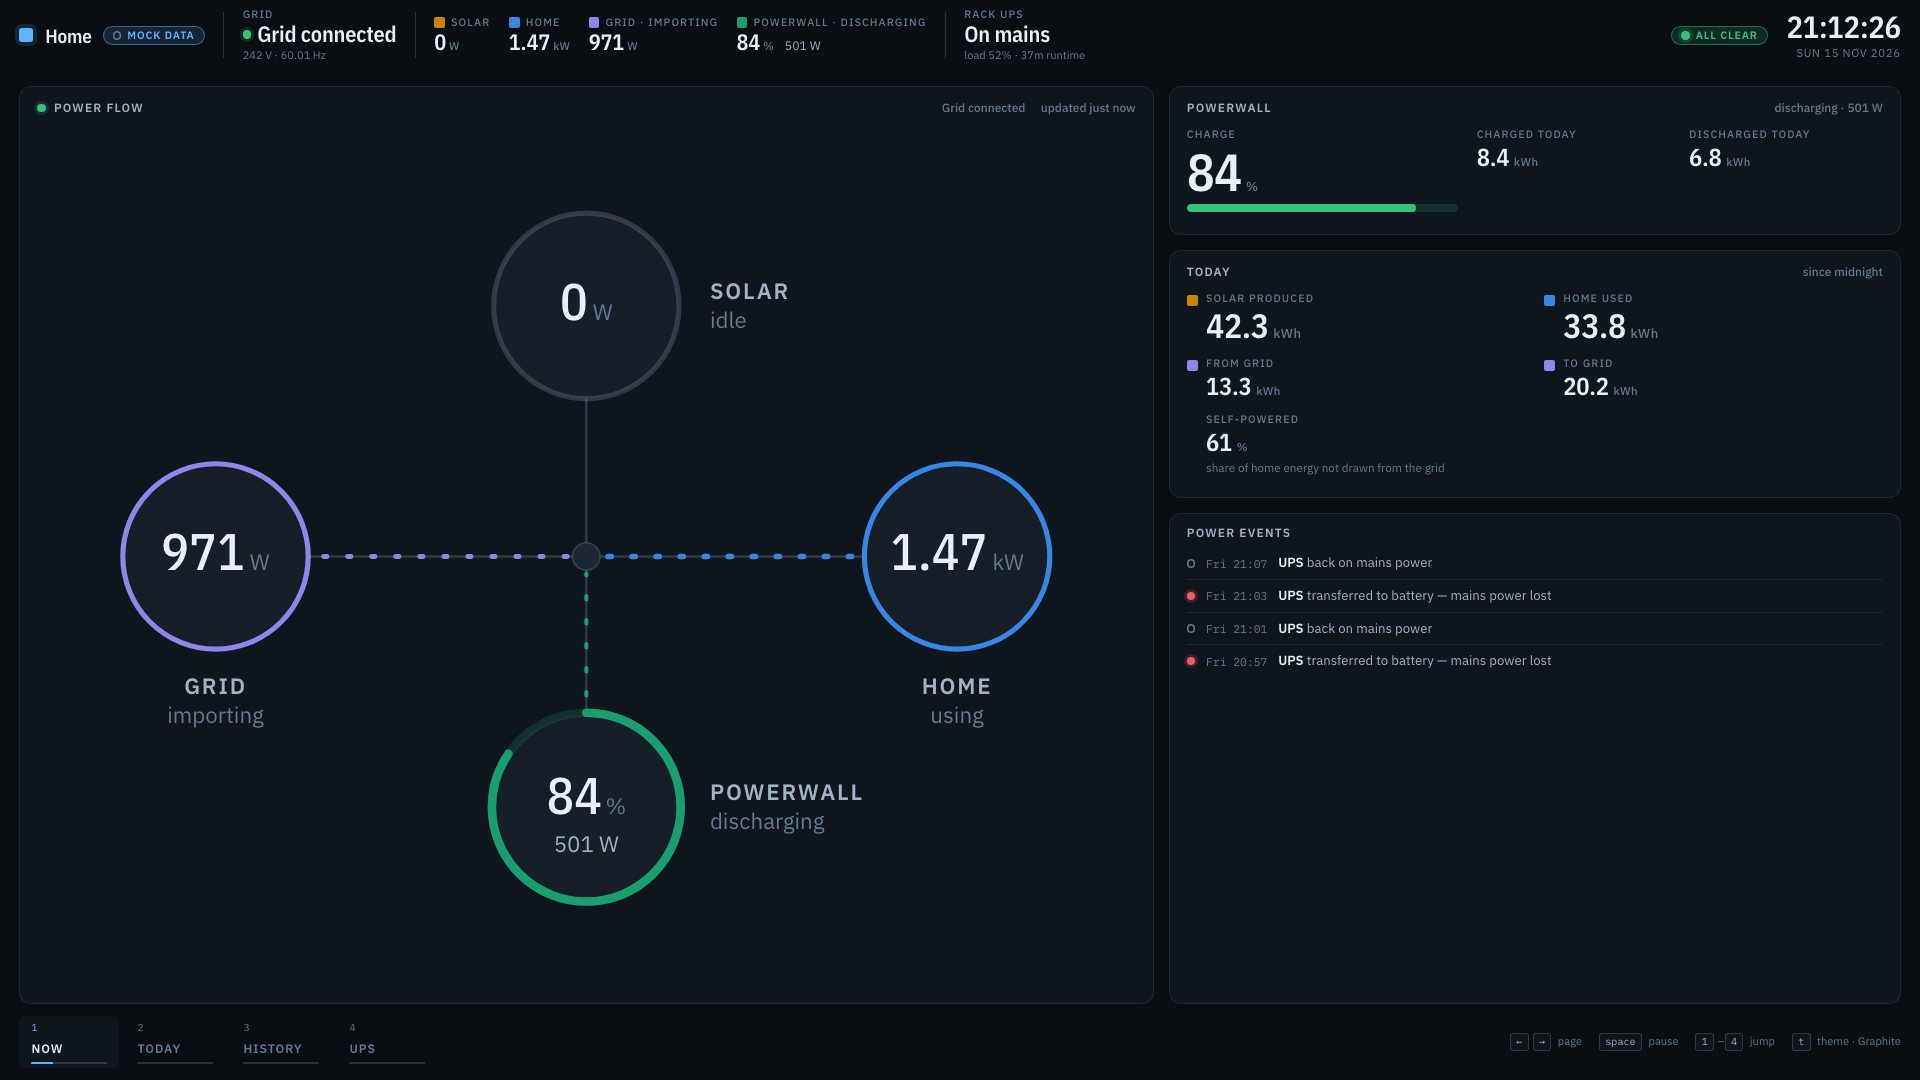
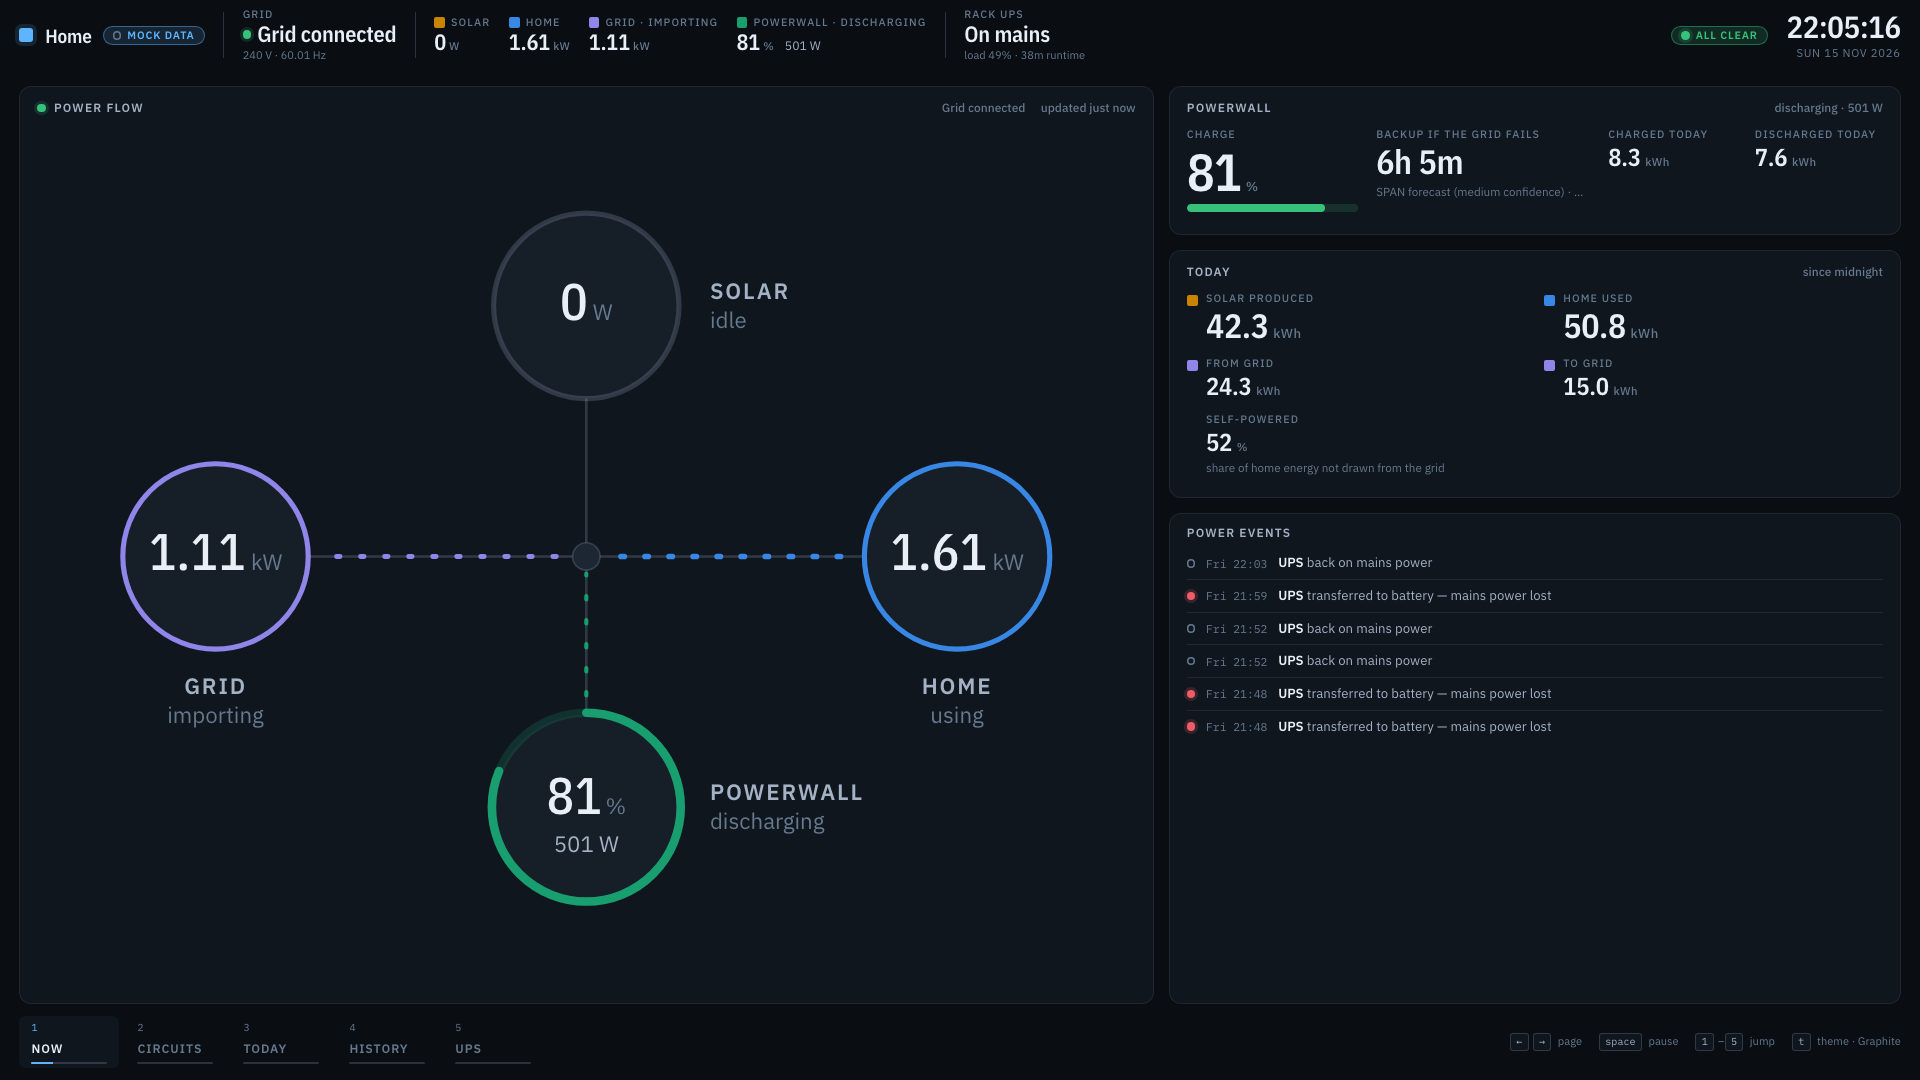
Show the off-grid backup forecast on the energy kiosk
SPAN publishes its own off-grid runtime forecast (shed-forecast/*, in
minutes; it accounts for load-shed tiers) and the battery's stored
energy. Carry both as SpanInfo.backup. backupEstimate() pairs SPAN's
figure with a plain at-current-draw one (stored kWh / (home - solar)).
They can differ by 2x or more: tonight it's 9h 43m vs 4h 0m with the
hot tub and EV charger running.

- Now page: a "Backup if the grid fails" stat in the Powerwall panel.
- While islanded: the top bar's grid status and the outage alert say
  how much backup is left.
- The next-shed countdown appears only once circuits are set to shed
  (in the SPAN app).
The mock gets a matching forecast.

diff --git a/web/src/lib/derive.ts b/web/src/lib/derive.ts
@@ -1,5 +1,5 @@
 import { buildTopology, type TopoEdge } from './topology.js';
-import { bps, pct, shortName } from './format.js';
+import { bps, formatUptime, pct, shortName } from './format.js';
 import type { Band, ClientStat, DeviceType, EnergyDay, NetworkDevice, PowerwallInfo, SpanInfo, UpsInfo, Wan, Features, EventSeverity } from './types.js';
 
 /** Pure derivations over the snapshot: what needs attention, fleet rollups,
@@ -171,7 +171,11 @@ export function deriveEnergyAlerts(s: EnergyAlertInput): Alert[] {
     if (!p || !p.reachable) add('warn', 'Powerwall', 'gateway not answering', 'energy');
     else {
       if (s.now - p.updatedAt > THRESHOLDS.powerwallStaleMs) add('warn', 'Powerwall', 'readings are stale', 'energy');
-      if (p.grid === 'islanded') add('crit', 'Grid', 'outage — home running on Powerwall', 'energy');
+      if (p.grid === 'islanded') {
+        const b = backupEstimate(s.span ?? null, p);
+        const left = b?.forecastMin ?? b?.atCurrentMin ?? null;
+        add('crit', 'Grid', `outage — home running on Powerwall${left != null ? `, ~${formatUptime(left * 60)} backup left` : ''}`, 'energy');
+      }
       if (p.chargePct != null && p.chargePct < THRESHOLDS.powerwallChargeCritPct) add('crit', 'Powerwall', `charge ${pct(p.chargePct)}`, 'energy');
       else if (p.chargePct != null && p.chargePct < THRESHOLDS.powerwallChargeWarnPct) add('warn', 'Powerwall', `charge ${pct(p.chargePct)}`, 'energy');
     }
@@ -182,6 +186,38 @@ export function deriveEnergyAlerts(s: EnergyAlertInput): Alert[] {
   }
   if (s.features.upsAvailable) upsAlerts(s.ups, add);
   return finalizeAlerts(out);
+}
+
+// --- backup runtime ---
+
+export type BackupEstimate = {
+  /** SPAN's forecast (accounts for load-shed tiers), minutes. */
+  forecastMin: number | null;
+  /** Plain arithmetic: stored energy over the live draw net of solar. Null
+   *  when solar covers the load (no drain) or the stored energy is unknown. */
+  atCurrentMin: number | null;
+  confidence: 'LOW' | 'MEDIUM' | 'HIGH' | null;
+  /** Minutes to the next shed tier, only when circuits are set to shed. */
+  nextShedMin: number | null;
+  storedKWh: number | null;
+};
+
+/** How long the house could run off-grid: SPAN's forecast as the headline
+ *  and a naive "at current draw" figure beside it — they differ because
+ *  SPAN assumes a typical load, while an evening with the hot tub and EV
+ *  charger running drains much faster. */
+export function backupEstimate(span: SpanInfo | null, pw: PowerwallInfo | null): BackupEstimate | null {
+  const b = span?.reachable ? span.backup : null;
+  if (!b) return null;
+  const drainW = pw ? Math.max(0, pw.homeW - pw.solarW) : null;
+  const atCurrentMin = b.storedKWh != null && drainW != null && drainW >= 50 ? Math.round((b.storedKWh * 1000 * 60) / drainW) : null;
+  return {
+    forecastMin: b.totalMin != null && b.totalMin > 0 ? b.totalMin : null,
+    atCurrentMin,
+    confidence: b.confidence,
+    nextShedMin: b.sheddableCircuits > 0 && b.nextShedMin != null && b.nextShedMin > 0 ? b.nextShedMin : null,
+    storedKWh: b.storedKWh,
+  };
 }
 
 // --- circuit flow (sources → panel → each circuit) ---

diff --git a/web/src/lib/pages/EnergyNowPage.svelte b/web/src/lib/pages/EnergyNowPage.svelte
@@ -1,7 +1,7 @@
 <script lang="ts">
   import { panel } from '$lib/store.svelte';
-  import { batteryDirection, gridLabel, selfPoweredPct, THRESHOLDS } from '$lib/derive';
-  import { formatKWh, formatW, num, relativeTime } from '$lib/format';
+  import { backupEstimate, batteryDirection, gridLabel, selfPoweredPct, THRESHOLDS } from '$lib/derive';
+  import { formatKWh, formatUptime, formatW, num, relativeTime } from '$lib/format';
   import Panel from '$lib/components/Panel.svelte';
   import Stat from '$lib/components/Stat.svelte';
   import Meter from '$lib/components/Meter.svelte';
@@ -24,6 +24,17 @@
   const energyEvents = $derived(panel.events.filter((e) => /^(grid|powerwall|ups)\./.test(e.kind)));
 
   const k = (wh: number | undefined) => formatKWh(wh);
+  const backup = $derived(backupEstimate(panel.span, pw));
+  const dur = (min: number | null | undefined) => (min == null ? '—' : formatUptime(min * 60));
+  const backupSub = $derived.by(() => {
+    if (!backup) return '';
+    const parts: string[] = [];
+    if (backup.forecastMin != null) parts.push(`SPAN forecast${backup.confidence ? ` (${backup.confidence.toLowerCase()} confidence)` : ''}`);
+    if (backup.atCurrentMin != null) parts.push(`${dur(backup.atCurrentMin)} at current draw`);
+    else if (pw && pw.solarW >= pw.homeW) parts.push('solar covering the load');
+    if (backup.nextShedMin != null) parts.push(`first shed in ${dur(backup.nextShedMin)}`);
+    return parts.join(' · ');
+  });
   const batt = $derived(formatW(pw?.batteryW));
 </script>
 
@@ -55,6 +66,9 @@
         <Stat label="Charge" value={num(pw.chargePct)} unit="%" size="xl" tone={chargeTone}>
           <Meter value={pw.chargePct} tone={chargeTone === 'none' ? 'ok' : chargeTone} height={8} />
         </Stat>
+        {#if backup}
+          <Stat label="Backup if the grid fails" value={dur(backup.forecastMin ?? backup.atCurrentMin)} size="lg" sub={backupSub} />
+        {/if}
         <Stat label="Charged today" value={k(today?.batteryChargeWh).value} unit="kWh" />
         <Stat label="Discharged today" value={k(today?.batteryDischargeWh).value} unit="kWh" />
       </div>
@@ -103,7 +117,7 @@
   }
   .battery {
     display: grid;
-    grid-template-columns: minmax(0, 1.4fr) repeat(2, minmax(0, 1fr));
+    grid-template-columns: minmax(0, 1.2fr) minmax(0, 1.5fr) repeat(2, minmax(0, 0.9fr));
     gap: 1.2rem;
     align-items: start;
     padding: 0.2rem 0 0.4rem;

diff --git a/server/src/span.ts b/server/src/span.ts
@@ -2,7 +2,7 @@ import { mkdirSync, readFileSync, writeFileSync } from 'node:fs';
 import { dirname, join } from 'node:path';
 import mqtt, { type MqttClient } from 'mqtt';
 import { fetch as undiciFetch } from 'undici';
-import type { SpanCircuit, SpanInfo } from './types.js';
+import type { SpanBackup, SpanCircuit, SpanInfo } from './types.js';
 
 /** SPAN smart panel over its local v2 API (spanio/SPAN-API-Client-Docs).
  *
@@ -144,6 +144,7 @@ export class SpanClient {
     const panel = this.devicesOfType('distribution-enclosure')[0]?.[1];
     if (!panel) return null;
     const up = this.devicesOfType('lugs').find(([, p]) => p.get('info/direction') === 'UPSTREAM')?.[1];
+    const bess = this.devicesOfType('bess')[0]?.[1];
     const state = panel.get('$state');
 
     const circuits: SpanCircuit[] = this.devicesOfType('circuit').map(([id, p]) => {
@@ -179,7 +180,28 @@ export class SpanClient {
       frequencyHz: num(panel.get('meter/frequency')),
       doorClosed: panel.has('door/state') ? panel.get('door/state') === 'CLOSED' : null,
       circuits,
+      backup: this.backup(panel, bess),
       updatedAt: this.lastMessageAt,
+    };
+  }
+
+  private backup(panel: Map<string, string>, bess: Map<string, string> | undefined): SpanBackup | null {
+    if (!panel.has('shed-forecast/total-time-remaining') && !bess) return null;
+    const conf = panel.get('shed-forecast/confidence');
+    let sheddable = 0;
+    for (const [, p] of this.devicesOfType('circuit')) {
+      const pr = p.get('load-shed/priority');
+      if (pr === 'OFF_GRID' || pr === 'SOC_THRESHOLD') sheddable++;
+    }
+    return {
+      totalMin: num(panel.get('shed-forecast/total-time-remaining')),
+      nextShedMin: num(panel.get('shed-forecast/time-to-priority-shed')),
+      fullChargeTotalMin: num(panel.get('shed-forecast/full-charge-total-time-remaining')),
+      fullChargeNextShedMin: num(panel.get('shed-forecast/full-charge-time-to-priority-shed')),
+      confidence: conf === 'LOW' || conf === 'MEDIUM' || conf === 'HIGH' ? conf : null,
+      storedKWh: num(bess?.get('soc/soe')),
+      capacityKWh: num(bess?.get('info/nameplate-capacity')),
+      sheddableCircuits: sheddable,
     };
   }
 }

diff --git a/web/src/lib/components/EnergyTopBar.svelte b/web/src/lib/components/EnergyTopBar.svelte
@@ -1,7 +1,7 @@
 <script lang="ts">
   import { onMount } from 'svelte';
   import { panel } from '$lib/store.svelte';
-  import { batteryDirection, gridDirection, gridLabel, type Alert } from '$lib/derive';
+  import { backupEstimate, batteryDirection, gridDirection, gridLabel, type Alert } from '$lib/derive';
   import { formatClock, formatDate, formatUptime, formatW, num } from '$lib/format';
 
   /** The energy kiosk's status bar: where the home's power is coming from
@@ -31,6 +31,8 @@
   const grid = $derived(formatW(pw?.gridW));
   const battery = $derived(formatW(pw?.batteryW));
 
+  const backup = $derived(backupEstimate(panel.span, pw));
+  const backupLeft = $derived(backup?.forecastMin ?? backup?.atCurrentMin ?? null);
   const ups = $derived(panel.ups);
   const upsTone = $derived(!ups || !ups.reachable ? 'warn' : ups.onBattery ? 'crit' : 'ok');
   const upsLabel = $derived(!ups || !ups.reachable ? 'No UPS data' : ups.onBattery ? 'On battery' : 'On mains');
@@ -50,7 +52,7 @@
     <span class="eyebrow">Grid</span>
     <span class="display big"><span class="dot {gridTone}"></span> {live ? gridLabel(pw!.grid) : 'No data'}</span>
     <span class="sub">
-      {#if live && pw!.voltageV != null}{num(pw!.voltageV)} V · {num(pw!.frequencyHz, 2)} Hz{:else}Powerwall gateway{/if}
+      {#if live && pw!.grid === 'islanded' && backupLeft != null}backup ~{formatUptime(backupLeft * 60)} left{:else if live && pw!.voltageV != null}{num(pw!.voltageV)} V · {num(pw!.frequencyHz, 2)} Hz{:else}Powerwall gateway{/if}
     </span>
   </div>
 

diff --git a/server/src/types.ts b/server/src/types.ts
@@ -402,6 +402,24 @@ export type SpanCircuit = {
   todayWh: number | null;
 };
 
+/** The SPAN panel's off-grid runtime forecast (its own estimate, which
+ *  accounts for load-shed priorities), plus the battery it is based on. */
+export type SpanBackup = {
+  /** Minutes of off-grid runtime from the current charge. */
+  totalMin: number | null;
+  /** Minutes until the next load-shed tier is cut (0/null: none pending). */
+  nextShedMin: number | null;
+  /** The same two estimates from a full battery. */
+  fullChargeTotalMin: number | null;
+  fullChargeNextShedMin: number | null;
+  confidence: 'LOW' | 'MEDIUM' | 'HIGH' | null;
+  /** Stored energy and nameplate capacity of the battery SPAN sees, kWh. */
+  storedKWh: number | null;
+  capacityKWh: number | null;
+  /** Circuits set to shed (priority OFF_GRID or SOC_THRESHOLD). */
+  sheddableCircuits: number;
+};
+
 /** A SPAN smart panel, normalized from its local eBus/MQTT tree. Site
  *  identity the panel publishes (street address, coordinates) is
  *  deliberately not carried. */
@@ -420,6 +438,8 @@ export type SpanInfo = {
   frequencyHz: number | null;
   doorClosed: boolean | null;
   circuits: SpanCircuit[];
+  /** Null when the panel publishes no forecast (no battery commissioned). */
+  backup: SpanBackup | null;
   updatedAt: number;
 };
 

diff --git a/server/src/mock.ts b/server/src/mock.ts
@@ -1083,6 +1083,18 @@ function createMockEnergy() {
       frequencyHz: 60 + 0.02 * jitter(t, 814, 10_000),
       doorClosed: true,
       circuits,
+      // SPAN-style forecast: stored energy over an assumed 1.8 kW average
+      // off-grid draw (no circuits set to shed, so no shed tier).
+      backup: {
+        totalMin: Math.round(((f.chargePct / 100) * CAPACITY_WH * 60) / 1_800),
+        nextShedMin: 0,
+        fullChargeTotalMin: Math.round((CAPACITY_WH * 60) / 1_800),
+        fullChargeNextShedMin: 0,
+        confidence: 'MEDIUM',
+        storedKWh: Math.round((f.chargePct / 100) * (CAPACITY_WH / 1000) * 10) / 10,
+        capacityKWh: CAPACITY_WH / 1000,
+        sheddableCircuits: 0,
+      },
       updatedAt: t,
     };
   }

diff --git a/CLAUDE.md b/CLAUDE.md
@@ -63,7 +63,9 @@ Model codes → product names live in `server/src/catalog.ts` (`modelName()`); a
 
 `EnergyLedger` turns the gateway's lifetime meter counters into per-day totals (deltas; a backwards or >50 kWh jump rebases instead of booking a spike) and readings into one-minute averages (24h kept), persisted to `data/energy.json` once a minute. The wire carries `powerwall` (with `today`), `powerwallHistory`/`powerwallSample`, and `energyDaily`. `store.ts` raises `grid.down`/`grid.up`, `powerwall.unreachable`/`reachable`, `powerwall.low` events. Mock mode synthesizes the site as a pure function of local time (solar curve with per-day weather, SoC curve whose slope is the battery power, grid = the balance, a 3-minute outage every 4 hours).
 
-`server/src/span.ts` reads an optional **SPAN smart panel** (`SPAN_HOST`, `SPAN_PASSPHRASE` from the SPAN Home app → On-premise settings). Live data is MQTT only (Homie 5 tree under `ebus/5/#` on the panel's broker, mqtts :8883, CA from unauthenticated `GET /api/v2/certificate/ca`); login is `<serial from GET /api/v2/status>` / passphrase — exactly what `POST /api/v2/auth/register` returns, but register is deliberately not called: the panel allows one registration per client name (422 "Name already exists"). Devices are classified by `$description.type`, never by id. Loads publish **negative** active power and accumulate `exported-energy`; `SpanCircuit.powerW` is flipped to consumption-positive. Circuits that mostly backfeed (lifetime imported > 5 kWh and > 10% of exported — the Powerwall's breaker) are `source: true` and excluded from loads. Per-circuit daily energy persists to `data/span.json`. The panel also publishes its street address and coordinates — never carry those into the wire types. The Circuits page is `CircuitFlow` — the Now page's animated flow carried through the panel: Powerwall sources → SPAN hub → one card per circuit in **breaker order** (stable layout; idle circuits dim), each with live W, today's kWh, breaker size and a draw-vs-breaker bar. `circuitRows()` builds the rows (backfeed circuits excluded, idlest folded past 14, Powerwall-home-minus-circuits gap as an explicit "Unmetered" card). `PANEL_UPS_CIRCUIT` names the circuit the rack UPS sits behind (here the unmetered garage **Subpanel**: server cabinet + hot tub + EV charger); that card splits into the UPS's measured output and the remainder (`PANEL_UPS_CIRCUIT_LABEL`/`_REST`). The UPS reports output, so its conversion loss lands in the remainder.
+`server/src/span.ts` reads an optional **SPAN smart panel** (`SPAN_HOST`, `SPAN_PASSPHRASE` from the SPAN Home app → On-premise settings). Live data is MQTT only (Homie 5 tree under `ebus/5/#` on the panel's broker, mqtts :8883, CA from unauthenticated `GET /api/v2/certificate/ca`); login is `<serial from GET /api/v2/status>` / passphrase — exactly what `POST /api/v2/auth/register` returns, but register is deliberately not called: the panel allows one registration per client name (422 "Name already exists"). Devices are classified by `$description.type`, never by id. Loads publish **negative** active power and accumulate `exported-energy`; `SpanCircuit.powerW` is flipped to consumption-positive. Circuits that mostly backfeed (lifetime imported > 5 kWh and > 10% of exported — the Powerwall's breaker) are `source: true` and excluded from loads. Per-circuit daily energy persists to `data/span.json`. The panel also publishes its street address and coordinates — never carry those into the wire types. SPAN also publishes an off-grid **shed forecast** (`shed-forecast/*`, minutes; it accounts for load-shed tiers) and the battery's `soc/soe` (kWh): carried as `SpanInfo.backup`. `backupEstimate()` shows SPAN's forecast as the headline ("Backup if the grid fails" on the Now page; in the top bar and the outage alert while islanded) next to a naive at-current-draw figure (stored kWh ÷ (home − solar)) — they differ a lot because SPAN assumes a typical load. The next-shed countdown only shows once circuits are set to shed (`load-shed/priority` OFF_GRID/SOC_THRESHOLD, changed in the SPAN app). The kiosk is read-only by design: relays, shed priorities and the islanding override are settable over MQTT but are left to the SPAN app.
+
+The Circuits page is `CircuitFlow` — the Now page's animated flow carried through the panel: Powerwall sources → SPAN hub → one card per circuit in **breaker order** (stable layout; idle circuits dim), each with live W, today's kWh, breaker size and a draw-vs-breaker bar. `circuitRows()` builds the rows (backfeed circuits excluded, idlest folded past 14, Powerwall-home-minus-circuits gap as an explicit "Unmetered" card). `PANEL_UPS_CIRCUIT` names the circuit the rack UPS sits behind (here the unmetered garage **Subpanel**: server cabinet + hot tub + EV charger); that card splits into the UPS's measured output and the remainder (`PANEL_UPS_CIRCUIT_LABEL`/`_REST`). The UPS reports output, so its conversion loss lands in the remainder.
 
 The **energy kiosk** is the same web app: `+page.svelte` switches to `ENERGY_PAGES` (`energy` "Now", `circuits` (needs `features.spanAvailable`), `today`, `history`, and the shared `power` UPS page) with `EnergyTopBar` and `deriveEnergyAlerts()` when the hostname starts with `energy.` or `?view=energy` (`?view=network` forces the other way). `PANEL_UI_PAGES` applies to the network kiosk only. Live at `energy.808.org` (own Apache vhost + cert in `~/git/salt`).
 
